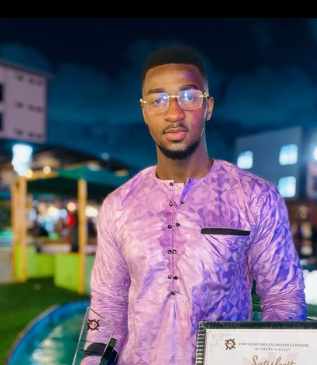
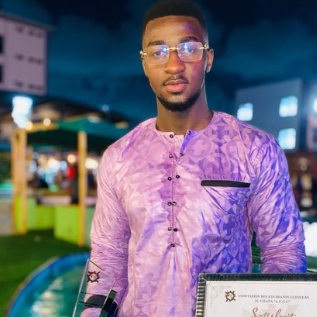
Randomizing Questions

diff --git a/public/assets/data.js b/public/assets/data.js
@@ -1,107 +1,147 @@
- const QuizQuestions = [
-    {
-        img: "assets/Guinea/g_1.webp",
-        choices: [
-            "Benin",
-            "Guinée",
-            "Togo",
-            "Senegal",
-        ],
-        correctAnswer: "Guinée",
-        
-    },
-    {
-        img: "assets/Mali/m_1.jpg",
-        choices: [
-            "Mali",
-            "Nigeria",
-            "Senegal",
-            "Cote D'Ivoire",
+const assets = 
+{"Guinée":
+    [
+    'assets/Guinea/g_1.webp', 
+    'assets/Guinea/g_10.jpg', 
+    'assets/Guinea/g_11.jpg', 
+    'assets/Guinea/g_2.png', 
+    'assets/Guinea/g_3.png', 
+    'assets/Guinea/g_4.png', 
+    'assets/Guinea/g_5.jpg', 
+    'assets/Guinea/g_6.jpg', 
+    'assets/Guinea/g_7.jpg', 
+    'assets/Guinea/g_8.jpg', 
+    'assets/Guinea/g_9.jpg'
+    ]
+,      
+"Côte d'Ivoire":
+    ['assets/Ivory Coast/c_1.jpg', 
+    'assets/Ivory Coast/c_10.jpg', 
+    'assets/Ivory Coast/c_11.jpg', 
+    'assets/Ivory Coast/c_2.png', 
+    'assets/Ivory Coast/c_3.png', 
+    'assets/Ivory Coast/c_4.png', 
+    'assets/Ivory Coast/c_5.jpg', 
+    'assets/Ivory Coast/c_6.jpg', 
+    'assets/Ivory Coast/c_7.jpg', 
+    'assets/Ivory Coast/c_8.jpg', 
+    'assets/Ivory Coast/c_9.jpg'
+    ]
+,
+"Mali":
+    ['assets/Mali/m_1.jpg', 
+    'assets/Mali/m_10.jpg', 
+    'assets/Mali/m_2.jpg', 
+    'assets/Mali/m_3.jpg', 
+    'assets/Mali/m_4.jpg', 
+    'assets/Mali/m_5.jpg', 
+    'assets/Mali/m_6.jpg', 
+    'assets/Mali/m_7.jpg', 
+    'assets/Mali/m_8.jpg', 
+    'assets/Mali/m_9.jpg'],
+"Nigeria":
+    ['assets/Nigeria/n_1.jpg', 
+    'assets/Nigeria/n_10.jpg', 
+    'assets/Nigeria/n_2.jpg', 
+    'assets/Nigeria/n_3.png', 
+    'assets/Nigeria/n_4.jpg', 
+    'assets/Nigeria/n_5.jpg', 
+    'assets/Nigeria/n_6.jpg', 
+    'assets/Nigeria/n_7.jpg', 
+    'assets/Nigeria/n_8.jpg', 
+    'assets/Nigeria/n_9.jpg'
+    ]
+,
+"Senegal":
+    ['assets/Senegal/sn_1.jpg', 
+    'assets/Senegal/sn_10.jpg', 
+    'assets/Senegal/sn_2.jpg', 
+    'assets/Senegal/sn_3.png', 
+    'assets/Senegal/sn_4.png', 
+    'assets/Senegal/sn_5.jpg', 
+    'assets/Senegal/sn_6.jpg', 
+    'assets/Senegal/sn_7.jpg', 
+    'assets/Senegal/sn_8.jpg', 
+    'assets/Senegal/sn_9.jpg'
+    ]
+,
+"Afrique du sud":
+    ['assets/South Africa/s_1.jpeg', 
+    'assets/South Africa/s_10.jpg', 
+    'assets/South Africa/s_2.jpeg', 
+    'assets/South Africa/s_3.png', 
+    'assets/South Africa/s_4.jpg', 
+    'assets/South Africa/s_5.jpg', 
+    'assets/South Africa/s_6.jpg', 
+    'assets/South Africa/s_7.jpg', 
+    'assets/South Africa/s_8.jpg', 
+    'assets/South Africa/s_9.jpg'
+    ]
+};
 
-        ],
-        correctAnswer: "Mali",
-        
-    },
-    {
-        img: "assets/Nigeria/n_1.jpg",
-        choices: [
-            "Afrique du Sud",
-            "Nigeria",
-            "Cote D'Ivoire",
-            "Benin",
-        ],
-        correctAnswer: "Nigeria",
-    },
-    {
-        img: "assets/Senegal/sn_1.jpg",
-        choices: [
-            "Nigeria",
-            "Guinée",
-            "Cote D'Ivoire",
-            "Senegal",
-        ],
-        correctAnswer: "Senegal",
-    },
-    {
-        img: "assets/Guinea/g_5.jpg",
-        choices: [
-            "Togo",
-            "Guinée",
-            "Senegal",
-            "Cote D'Ivoire",
-        ],
-        correctAnswer: "Guinée",
-    },
-    {
-        img: "assets/Guinea/g_11.jpg",
-        choices: [
-            "Afrique du sud",
-            "Guinée",
-            "Senegal",
-            "Mali",
-        ],
-        correctAnswer: "Guinée",
-    },
-    {
-        img: "assets/Senegal/sn_4.png",
-        choices: [
-            "Nigeria",
-            "Senegal",
-            "Cote D'Ivoire",
-            "Guinée",
-        ],
-        correctAnswer: "Senegal",
-    },
-    {
-        img: "assets/Mali/m_6.jpg",
-        choices: [
-            "Guinée",
-            "Senegal",
-            "Cote D'Ivoire",
-            "Mali"
-        ],
-        correctAnswer: "Mali",
-    },
-    {
-        img: "assets/Ivory Coast/c_11.jpg",
-        choices: [
-            "Nigeria",
-            "Senegal",
-            "Cote D'Ivoire",
-            "Mali",
-        ],
-        correctAnswer: "Cote D'Ivoire",
-    },
-    {
-        img: "assets/South Africa/s_10.jpg",
-        choices: [
-            "Guinée",
-            "Nigeria",
-            "Cote D'Ivoire",
-            "Afrique du Sud"
-        ],
-        correctAnswer: "Afrique du Sud",
-    },
+const countries = [
+    "Guinée",
+    "Côte d'Ivoire",
+    "Mali",
+    "Nigeria",
+    "Senegal",
+    "Afrique du sud",
 ]
 
-export default QuizQuestions;
+
+
+//Create random quiz questions
+const getRandomCountry = ()=>{
+    return countries[Math.floor(Math.random()*countries.length)];
+}
+const getRandomNum = ()=>{
+    return Math.floor(Math.random()*10);
+}
+function containsObject(obj, list) {
+    var i;
+    for (i = 0; i < list.length; i++) {
+        if (list[i].img === obj.img && list[i].correctAnswer === obj.correctAnswer) {
+            return true;
+        }
+    }
+
+    return false;
+}
+const createQuizQuestions = ()=>{
+    var QuizQuestions = [];
+    //To avoid repeated questions (same image and same country)
+    //We're going to save all the propositions and compare new ones to the saved ones
+    //To avoid repetions
+    while(QuizQuestions.length<10){
+        var choices = [];
+        var randomCountry = getRandomCountry();
+        var randomNumber = getRandomNum();
+
+        //make wrong choices
+        while(choices.length<3){
+            //Get random country
+            var country = countries[Math.floor(Math.random()*countries.length)];
+            //Check if random country is in list or equal to the correct answer
+            if(!choices.includes(country) && country!==randomCountry){
+                choices.push(country);
+            };
+        }
+        choices.push(randomCountry);
+        //randomize choices
+        var finalChoices = [];
+        while(finalChoices.length<4){
+            var item = choices[Math.floor(Math.random()*choices.length)];
+            if(!finalChoices.includes(item)){
+                finalChoices.push(item);
+            }
+        }
+        //create object and append to list
+        let option = {img:`${assets[randomCountry][randomNumber]}`,choices:finalChoices,correctAnswer:`${randomCountry}`}
+        if(!containsObject(option,QuizQuestions)){
+            QuizQuestions.push(option);
+        }
+    }
+    return QuizQuestions;
+}
+
+export default createQuizQuestions;

diff --git a/src/components/Quiz.jsx b/src/components/Quiz.jsx
@@ -2,7 +2,7 @@ import { useState } from "react";
 import FinishScreen from "./FinishScreen";
 import StartScreen from "./StartScreen";
 
-const Quiz = ({questions, finishData})=>{
+const Quiz = ({questions, resetQuestions,finishData})=>{
     const [showStart,setShowStart] = useState(true);
     const [currentQuestion, setCurrentQuestion] = useState(0);
     const [selectedIndex, setSelectedIndex] = useState(null);
@@ -84,7 +84,7 @@ const Quiz = ({questions, finishData})=>{
             </>
                 : 
             <> 
-                <FinishScreen score={score} resetScore={setScore} scoreLevel={scoreLevel} finishData={finishData} restart={endQuiz} setRestart={setEndQuiz}/>
+                <FinishScreen score={score} resetScore={setScore} scoreLevel={scoreLevel} finishData={finishData} restart={endQuiz} setRestart={setEndQuiz} restartQuestions={resetQuestions}/>
             </>}
         </div>
         </>

diff --git a/src/App.jsx b/src/App.jsx
@@ -1,11 +1,12 @@
 import Quiz from './components/Quiz'
-import QuizQuestions from '../public/assets/data'
+import createQuizQuestions from '../public/assets/data'
 import FinishQuotes from '../public/assets/finishData'
+import { useState } from 'react'
 
 function App() {
-
+  const [quizQuestions,setQuizQuestions] = useState(createQuizQuestions())
   return (
-      <Quiz questions={QuizQuestions} finishData={FinishQuotes}/>
+      <Quiz questions={quizQuestions} resetQuestions={setQuizQuestions} finishData={FinishQuotes}/>
   )
 }
 

diff --git a/src/components/FinishScreen.jsx b/src/components/FinishScreen.jsx
@@ -1,7 +1,11 @@
-const FinishScreen = ({score,resetScore,scoreLevel,finishData,restart,setRestart})=>{
+import createQuizQuestions from "../../public/assets/data";
+
+const FinishScreen = ({score,resetScore,scoreLevel,finishData,restartQuestions,restart,setRestart})=>{
     const restartQuiz = ()=>{
         setRestart(null);
         resetScore(0);
+        restartQuestions(createQuizQuestions())
+    
     }
     return(
         <div className="results">

diff --git a/src/index.css b/src/index.css
@@ -37,6 +37,7 @@ header{
   display: block;
   margin: 0 auto;
   border-radius: 8px;
+  cursor: pointer;
 }
 .quiz-container{
   height: 80vh;
@@ -59,6 +60,7 @@ header{
   height: 50vh;
   width: 100%;
   object-fit: cover;
+  object-position: top;
 }
 .quiz-list{
   padding-top: 20px;
